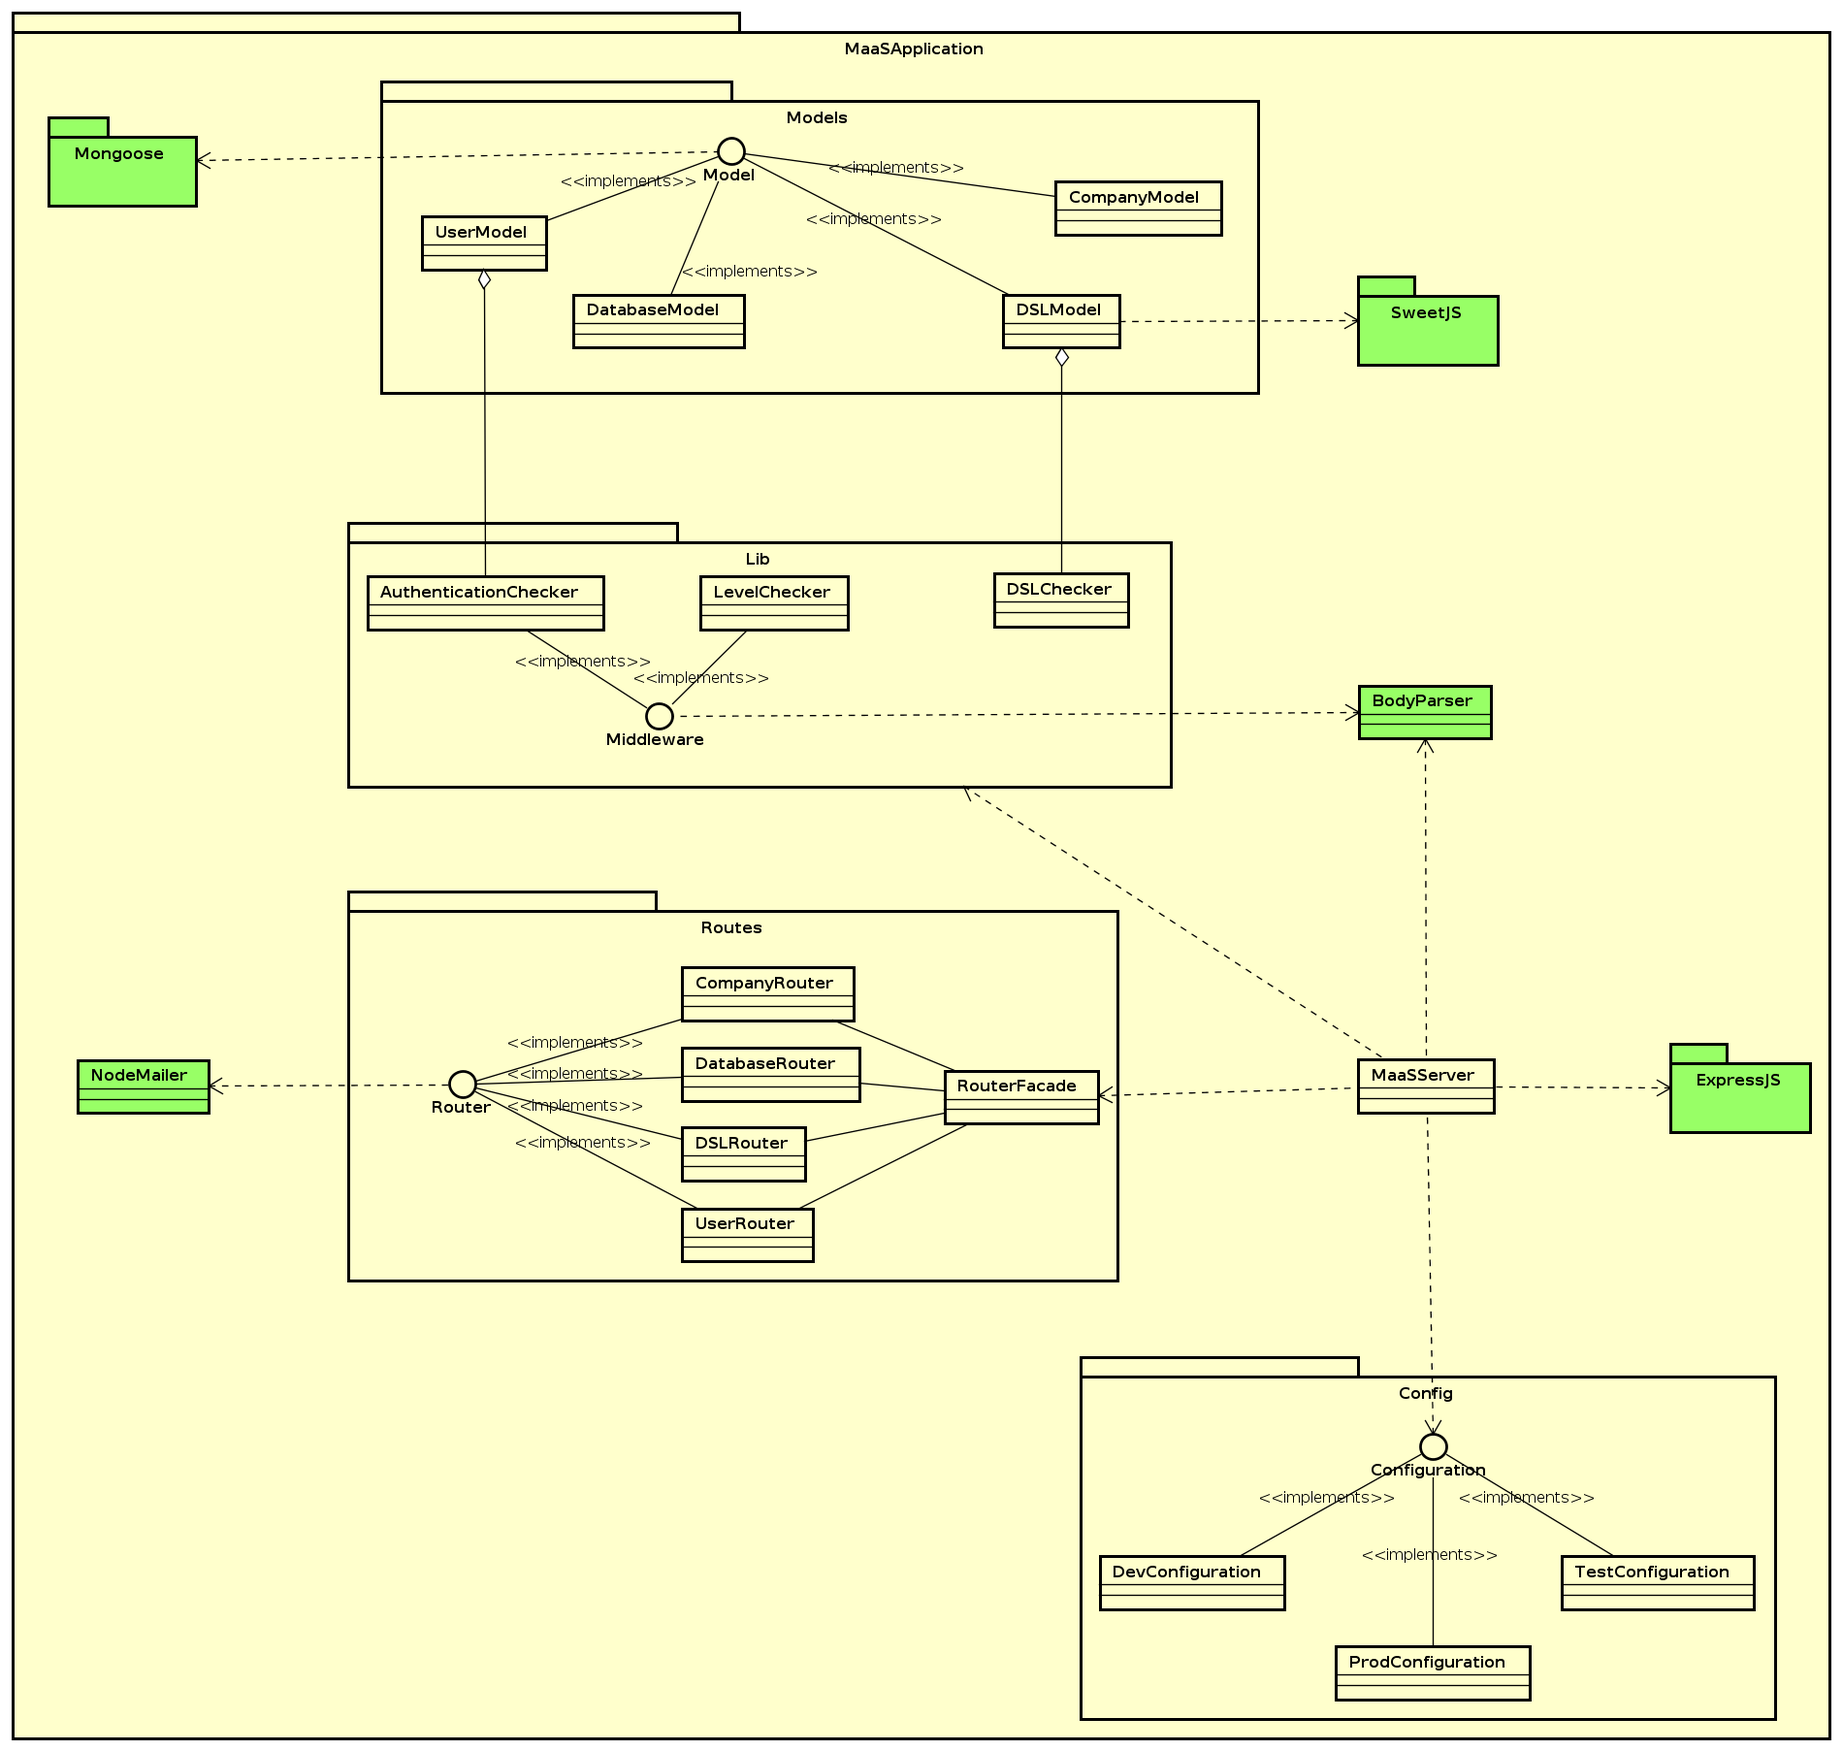
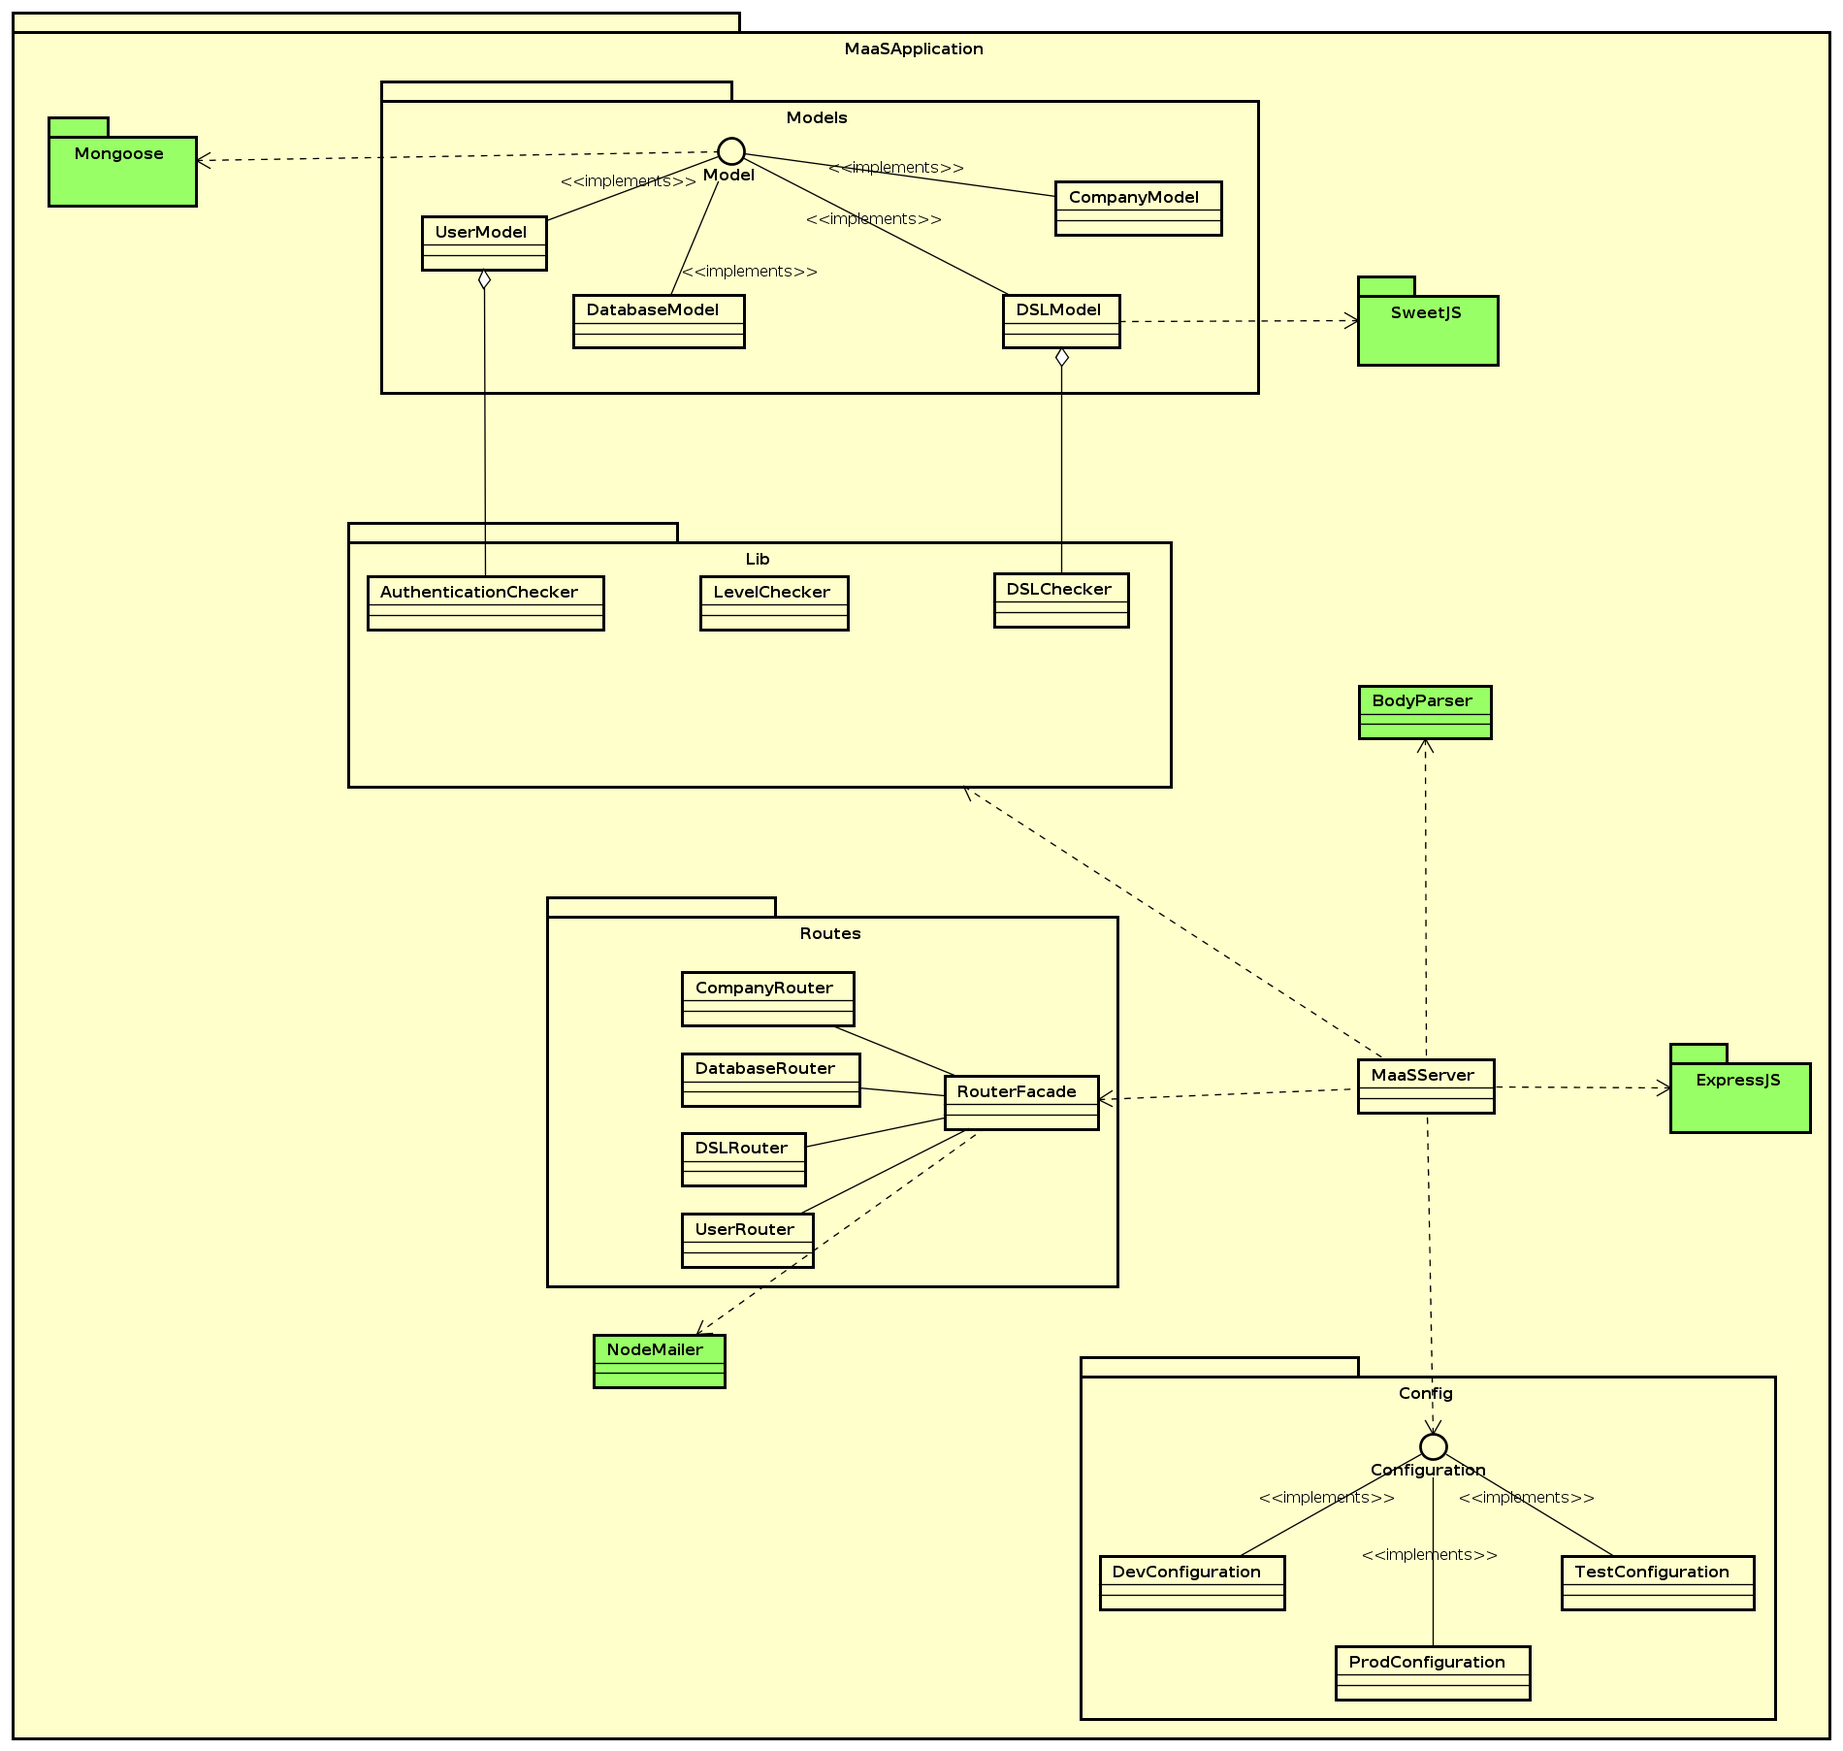
Fixed backend, with class for typescript integration

diff --git a/official/SpecificaTecnica/res/sections/backend.tex b/official/SpecificaTecnica/res/sections/backend.tex
@@ -1,6 +1,6 @@
 \section{Backend}
-\subsection{Formalismo utilizzato}
-L'utilizzo del framework ExpressJS come base per il server ha evidenziato la necessità di regolamentare alcune convenzioni utilizzate. Queste convenzioni riguardano il formalismo utilizzato per la rappresentazione in quanto concetti come moduli, middlewares e first-class function non hanno una corrispondenza diretta nei diagrammi UML.
+%\subsection{Formalismo utilizzato}
+%L'utilizzo del framework ExpressJS come base per il server ha evidenziato la necessità di regolamentare alcune convenzioni utilizzate. Queste convenzioni riguardano il formalismo utilizzato per la rappresentazione in quanto concetti come moduli, middlewares e first-class function non hanno una corrispondenza diretta nei diagrammi UML.
 %I moduli verranno rappresentati come classi.
 
 %% DA FINIRE E DEFINIRE CON MATTEO
@@ -13,11 +13,11 @@ L'implementazione scelta per il backend dell'applicazione è un server con archi
 \item l'interfaccia delle risorse deve essere uniforme e deve garantire un insieme ben definito di operazioni e una gestione priva di stato delle operazioni.
 \end{itemize}
 
-Tale architettura permette l'indipendenza completa tra backend e frontend, permettendo così a espansioni su altre piattaforme senza dover modificare il backend dell'applicazione.
+Tale architettura permette l'indipendenza completa tra backend e frontend, permettendo così espansioni su altre piattaforme senza dover modificare il backend dell'applicazione.
 
-L'architettura del backend segue il design patter MVC (\textbf{M}odel \textbf{V}iew \textbf{C}ontroller) per quanto concerne i ruoli di Model e Controller. 
-Il ruolo di Controller tuttavia, non essendo implementato nativamente in Express, verrà implementato da uno stack di middleware come suggerito dal framework.
-La parte View, invece, è rapprestata dal frontend, costituito da componenti definiti con React e disposti secondo l'architettura Flux.
+L'architettura del server segue il design patter MVC (\textbf{M}odel \textbf{V}iew \textbf{C}ontroller) per quanto concerne i ruoli di Model e Controller. 
+Il ruolo di Controller tuttavia, non essendo implementato nativamente in dal framework Express, verrà implementato da uno stack di middleware come suggerito dalla documentazione del framework stesso.
+La parte View, invece, è rapprestata dal frontend, costituito da componenti definiti con React e che interagiscono secondo l'architettura Flux.
 
 \subsection{Descrizione dei package}
 Il seguente diagramma mostra l'architettura generale del backend.
@@ -39,7 +39,7 @@ Package che racchiude tutta l'applicazione MaaS.
 \item Lib
 \end{itemize}
 
-\paragraph*{Moduli contenuti}
+\paragraph*{Classi contenute}
 \begin{itemize}
 \item MaaSServer
 \end{itemize}
@@ -52,10 +52,11 @@ Package che racchiude tutta l'applicazione MaaS.
 
 \subsection{Package Models}
 \paragraph*{Descrizione}
-Package che racchiude i moduli contenenti la business logic dell'applicazione. Ciascuno di questi moduli implementa un modello Mongoose e definisce i metodi con cui interagirvi (aggiungere, rimuovere e modificare i contenuti). \\
-Rappresenta la parte M (Model) del design pattern MVC.
+Package che racchiude le classi che rappresentano la business logic dell'applicazione. Ciascuna di queste classi implementa l'interafaccia Model dichiarata all'interno del package.
+Ciascuna classe deve implementare un modello definito da MongooseJS e deve definire i metodi con cui interagire con i dati che la classe stessa rappresenta. \\
+Queste classi rappresentano la parte M (Model) del design pattern MVC.
 
-\paragraph*{Moduli contenuti}
+\paragraph*{Classi contenute}
 \begin{itemize}
 \item UserModel
 \item DSLModel
@@ -74,64 +75,6 @@ Rappresenta la parte M (Model) del design pattern MVC.
 \caption{Diagramma delle classi del package Models}
 \end{figure}
 
-\subsubsection{UserModel}
-\paragraph*{Descrizione}
-
-Racchiude la business logic legata agli utenti. Viene implementato tramite Module pattern di Javascript. 
-
-\paragraph*{Utilizzo}
-Il modello viene utilizzato sia per la rappresentazione di un utente nell'applicazione, sia per l'autenticazione nel sistema.
-
-\paragraph*{Relazioni con altri moduli}
-\begin{itemize}
-\item Mongoose
-\item Mongoose-validator
-\item Lib::AuthenticationChecker
-\end{itemize}
-
-\subsubsection{CompanyModel}
-\paragraph*{Descrizione}
-Racchiude la business logic legata alle Company. Viene implementato tramite Module pattern di Javascript. 
-
-\paragraph*{Utilizzo}
-Il modello rappresenta una Company nel sistema.
-
-\paragraph*{Relazioni con altri moduli}
-\begin{itemize}
-\item Mongoose
-\item Mongoose-validator
-\end{itemize}
-
-\paragraph{DatabaseModel}
-\paragraph*{Descrizione}
-
-Racchiude la business logic legata al collegamento con i database delle Company. Viene implementato tramite Module pattern di Javascript. 
-
-\paragraph*{Utilizzo}
-Il modello rappresenta la connessione ad un database aziendale di una company. Contiene i dati per effettuare l'accesso al database e il riferimento alle collections definite su tale database, permettendo così all'utente di poter definire per ciascuna collection la possibilità di interagirvi da parte di tutti i membri della propria Company o solo degli admin.
-
-\paragraph*{Relazioni con altri moduli}
-\begin{itemize}
-\item Mongoose
-\item Mongoose-validator
-\end{itemize}
-
-\paragraph{DSLModel}
-\paragraph*{Descrizione}
-
-Racchiude la business logic legata alle specifiche DSL. Viene implementato tramite Module pattern di Javascript. 
-
-\paragraph*{Utilizzo}
-Il modello viene utilizzato per la rappresentazione delle specifiche DSL. Contiene i dati di tali specifiche e le funzioni per poter estrarre i dati richiesti da una specifica DSL.
-
-\paragraph*{Relazioni con altri moduli}
-\begin{itemize}
-\item Mongoose
-\item Mongoose-validator
-\item DSLChecker
-\item DatabaseModel
-\end{itemize}
-
 \paragraph{Model}
 \paragraph*{Descrizione}
 Interfaccia comune a tutti i modelli usati da MaaS.
@@ -148,12 +91,73 @@ Viene utilizzata come base per UserModel, CompanyModel, DSLModel e DatabaseModel
 \item DatabaseModel
 \end{itemize}
 
+\subsubsection{UserModel}
+\paragraph*{Descrizione}
+Classe che racchiude la business logic legata agli utenti. Implementa modello e schema definiti da MongooseJS.
+
+\paragraph*{Utilizzo}
+Il modello viene utilizzato sia per la rappresentazione di un utente nell'applicazione, sia per l'autenticazione nel sistema.
+
+\paragraph*{Relazioni con altre classi}
+\begin{itemize}
+\item Mongoose
+\item Mongoose-validator
+\item Lib::AuthenticationChecker
+\item Router::UserRouter
+\end{itemize}
+
+\subsubsection{CompanyModel}
+\paragraph*{Descrizione}
+Racchiude la business logic legata alle Company. Implementa modello e schema definiti da MongooseJS.
+
+\paragraph*{Utilizzo}
+Il modello rappresenta una Company nel sistema.
+
+\paragraph*{Relazioni con altri moduli}
+\begin{itemize}
+\item Mongoose
+\item Mongoose-validator
+\item Router::CompanyRouter
+\end{itemize}
+
+\paragraph{DatabaseModel}
+\paragraph*{Descrizione}
+
+Racchiude la business logic legata al collegamento con i database delle Company. Implementa modello e schema definiti da MongooseJS.
+
+\paragraph*{Utilizzo}
+Il modello rappresenta la connessione ad un database aziendale di una company. Contiene i dati per effettuare l'accesso al database e il riferimento alle collections definite su tale database, permettendo così all'utente di poter definire per ciascuna collection la possibilità di interagirvi da parte di tutti i membri della propria Company o solo degli admin.
+
+\paragraph*{Relazioni con altri moduli}
+\begin{itemize}
+\item Mongoose
+\item Mongoose-validator
+\item Router::DatabaseRouter
+\end{itemize}
+
+\paragraph{DSLModel}
+\paragraph*{Descrizione}
+
+Racchiude la business logic legata alle specifiche DSL. Implementa modello e schema definiti da MongooseJS.
+
+\paragraph*{Utilizzo}
+Il modello viene utilizzato per la rappresentazione delle specifiche DSL. Contiene i dati di tali specifiche e le funzioni per poter estrarre i dati richiesti da una specifica DSL.
+
+\paragraph*{Relazioni con altri moduli}
+\begin{itemize}
+\item Mongoose
+\item Mongoose-validator
+\item Lib::DSLChecker
+\item Router::DSLRouter
+\end{itemize}
+
+
 \subsubsection{Package Routes}
 \paragraph*{Descrizione}
-Il package Routes contiene l'implementazione dei Router definiti da ExpressJS. Il package è costituito da una serie di moduli che implementano gli endpoint per le API.
-I moduli vengono suddivisi in base al modello che utilizzano. Ciascuna route definita inoltre ha il compito di richiamare i middleware necessari.
-La definizione delle API seguirà la descrizione riportata nella sezione apposita di questo documento.\\
-Reppresenta la parte C (Controller) del design pattern MVC.
+Il package Routes contiene le classi che  implementano il router definito da ExpressJS, definendo le varie API esposte dal server
+I moduli vengono suddivisi in base al modello che utilizzano. 
+Ciascuna classe inoltre ha il compito di definire i middleware da anteporre alla definizione delle API.\\
+Le classi ricoprono il ruolo di Controller del design pattern MVC.
 
 \paragraph*{Moduli contenuti}
 \begin{itemize}
@@ -164,11 +168,6 @@ Reppresenta la parte C (Controller) del design pattern MVC.
 \item RouterFacade
 \end{itemize}
 
-\paragraph*{Interfacce contenute}
-\begin{itemize}
-\item Router
-\end{itemize}
-
 \begin{figure}[H]
 \centering
 \includegraphics[width=0.8\textwidth]{res/sections/backend/routes.png}
@@ -177,12 +176,12 @@ Reppresenta la parte C (Controller) del design pattern MVC.
 
 \paragraph{UserRouter}
 \paragraph*{Descrizione}
-Questo modulo contiene la definizione degli endpoint riguardanti gli utenti. 
+Questa classe contiene la definizione degli endpoint riguardanti gli utenti. 
 
 \paragraph*{Relazione con altri moduli}
 \begin{itemize}
-\item AuthenticationChecker
-\item UserModel
+\item Lib::AuthenticationChecker
+\item Model::UserModel
 \end{itemize}
 
 \paragraph{CompanyRouter}
@@ -191,53 +190,38 @@ Questo modulo contiene la definizione degli endpoint riguardanti le company.
 
 \paragraph*{Relazione con altri moduli}
 \begin{itemize}
-\item AuthenticationChecker
-\item CompanyModel
+\item Lib::AuthenticationChecker
+\item Model::CompanyModel
 \end{itemize}
 
 \paragraph{DSLRouter}
 \paragraph*{Descrizione}
-Questo modulo contiene la definizione degli endpoint riguardanti le specifiche DSL.
+Questo modulo contiene la definizione delle API riguardanti le specifiche DSL.
 
 \paragraph*{Relazione con altri moduli}
 \begin{itemize}
-\item AuthenticationChecker
-\item DSLModel
+\item Lib::AuthenticationChecker
+\item Lib::LevelChecker
+\item Model::DSLModel
 \end{itemize}
 
 \paragraph{DatabaseRouter}
 \paragraph*{Descrizione}
-Questo modulo contiene la definizione degli endpoint riguardanti le connessioni ai database aziendali.
+Questo modulo contiene la definizione delle API riguardanti le connessioni ai database aziendali.
 
 \paragraph*{Relazione con altri moduli}
 \begin{itemize}
-\item AuthenticationChecker
-\item DatabaseModel
+\item Lib::AuthenticationChecker
+\item Lib::LevelChecker
+\item Model::DatabaseModel
 \end{itemize}
 
 \paragraph{RouterFacade}
 \paragraph*{Descrizione}
-Oggetto che implementa il Facade Design Pattern. Tale oggetto incorpora tutti gli endpoint definiti dagli altri router.
+Oggetto che implementa il Facade Design Pattern. Tale oggetto incorpora tutte le API definite nelle classi Router.
 
 \paragraph*{Relazione con altri moduli}
 \begin{itemize}
-\item AuthenticationChecker
-\item UserRouter
-\item CompanyRouter
-\item DSLRouter
-\item DatabaseRouter
-\end{itemize}
-
-\paragraph{Router}
-\paragraph*{Descrizione}
-Interfaccia comune ai router usati da MaaS.
-
-\paragraph*{Utilizzo}
-Viene utilizzata come base per UserRouter, CompanyRouter, DSLRouter e DatabaseRouter.
-
-\paragraph*{Relazione con altri moduli}
-\begin{itemize}
-\item BodyParser
 \item UserRouter
 \item CompanyRouter
 \item DSLRouter
@@ -246,7 +230,8 @@ Viene utilizzata come base per UserRouter, CompanyRouter, DSLRouter e DatabaseRo
 
 \subsubsection{Package Config}
 \paragraph*{Descrizione}
-Questo package contiene la classe Configuration che, in base alla variabile d'ambiente NODE\_ENV, restituisce l'oggetto contenente tutte le informazioni utili alla configurazione del server.
+Questo package contiene le classi Configuration che contengono tutte le informazioni per inizializzare correttmente l'applicazione. 
+Sarà poi l'applicazione a dover recuperare la corretta configurazione in base alla variabilie d'ambiente NODE\_ENV.
 
 \paragraph*{Moduli contenuti}
 \begin{itemize}
@@ -311,10 +296,6 @@ Questo package contiene tutti i moduli di supporto al sistema e i middlewares ge
 \item DSLChecker
 \end{itemize}
 
-\paragraph{Interfacce contenute}
-\begin{itemize}
-\item Middleware
-\end{itemize}
 
 \begin{figure}[H]
 \centering
@@ -358,49 +339,28 @@ Questo modulo viene richiamato in DSLModel per verificare che la specifica DSL c
 \item DSLModel
 \end{itemize}
 
-\paragraph{Middleware}
+\subsubsection{MaaSServer}
 \paragraph*{Descrizione}
-Interfaccia comune ai middlware usati da MaaS.
+Classe principale dell'applicazione.
 
 \paragraph*{Utilizzo}
-Viene utilizzata come base per AuthenticationChecker e per LevelChecker.
-
-\paragraph*{Relazione con altri moduli}
-\begin{itemize}
-\item BodyParser
-\item AuthenticationChecker
-\item LevelChecker
-\end{itemize}
-
-\subsubsection{Modulo MaaSServer}
-\paragraph*{Descrizione}
-Modulo principale dell'applicazione.
-
-\paragraph*{Utilizzo}
-Viene ....
-
+Viene utilizzata questa classe per inizializzare l'applicazione. Questa classe ha la responsabilità di caricare gli altri moduli del backend correttamente e di inizializzare il webserver che li utilizza.
 \paragraph*{Relazione con altri moduli}
 \begin{itemize}
 \item Config
-\item RouterFacade
+\item Router::RouterFacade
 \item BodyParser
-\item Routes
 \item ExpressJS
 \end{itemize}
 
-\paragraph*{Relazione con altri package}
-\begin{itemize}
-\item Lib
-\item ExpressJS
-\end{itemize}
 
 \subsubsection{Moduli integrati}
 \paragraph{BodyParser}
 \paragraph*{Descrizione}
-?????????????????
+Modulo di terze parti per la corretta lettura delle informazioni contenute nel body delle richieste HTTP.
 
 \paragraph*{Utilizzo}
-??????????????????
+Il modulo in questione viene utilizzato come middleware per ExpressJS e si occupa della corretta lettura delle informazioni contenute nel body di una richiesta HTTP. Nel nostro caso verrà impiegato per la lettura dei dati del body in formato JSON.
 
 \paragraph{NodeMailer}
 \paragraph*{Descrizione}
@@ -419,7 +379,7 @@ Permette di inviare delle email.
 
 \paragraph{ExpressJS}
 \paragraph*{Descrizione}
-Framework per la creazione e la gestione di API REST.
+Framework per la creazione e la gestione di webserver per l'esposizione di API RESTful.
 
 \paragraph*{Utilizzo}
 Utilizzato come base per la struttura del server.
